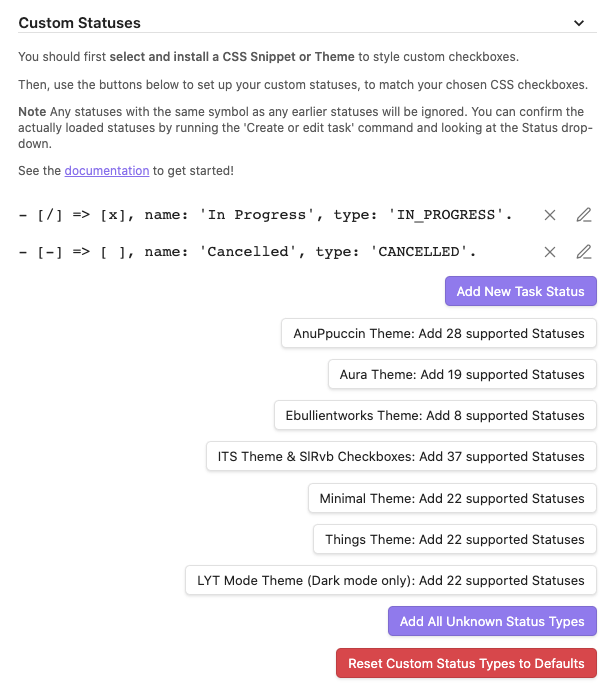
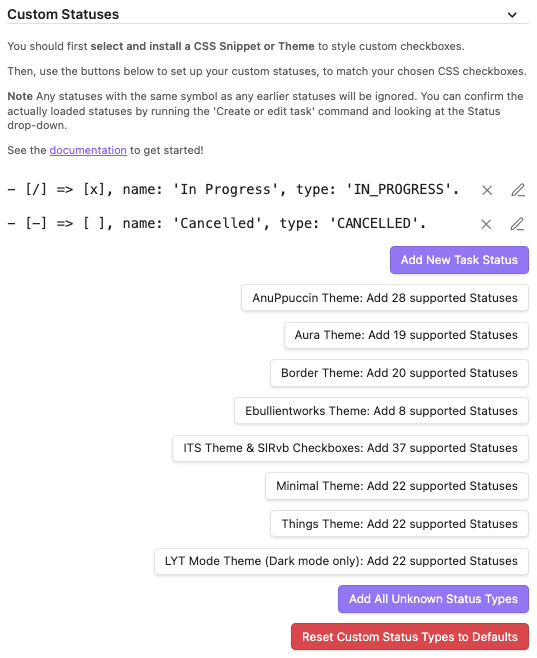
docs: Document one-click support for the Border theme

diff --git a/docs/Reference/Status Collections/Border Theme.md b/docs/Reference/Status Collections/Border Theme.md
@@ -1,0 +1,76 @@
+---
+publish: true
+---
+
+# Border Theme
+
+## Introduction
+
+|                       Location | Link                                                                                                                                                              |
+| ------------------------------:|:----------------------------------------------------------------------------------------------------------------------------------------------------------------- |
+|                        GitHub: | <https://github.com/Akifyss/obsidian-border>                                                                                                                      |
+|                  Obsidian Hub: | [Border Theme](https://publish.obsidian.md/hub/02+-+Community+Expansions/02.05+All+Community+Expansions/Themes/Border)                                            |
+| Test note in Tasks-Demo vault: | [Theme - Border Theme](https://github.com/obsidian-tasks-group/obsidian-tasks/blob/main/resources/sample_vaults/Tasks-Demo/Styling/Theme%20-%20Border%20Theme.md) |
+|                         Notes: |                                                                                                                                                                   |
+
+## Screenshot
+
+![Sample tasks show in Reading mode, with the Border Theme](../../../images/theme-border-reading-view.png)
+
+## Supported statuses
+
+<!-- snippet: DocsSamplesForStatuses.test.Theme_Border_Text.approved.txt -->
+```txt
+- [ ] #task `space` To Do
+- [/] #task `/` In Progress
+- [x] #task `x` Done
+- [-] #task `-` Cancelled
+- [>] #task `>` Rescheduled
+- [<] #task `<` Scheduled
+- [!] #task `!` Important
+- [?] #task `?` Question
+- [i] #task `i` Infomation
+- [S] #task `S` Amount
+- [*] #task `*` Star
+- [b] #task `b` Bookmark
+- [“] #task `“` Quote
+- [n] #task `n` Note
+- [l] #task `l` Location
+- [I] #task `I` Idea
+- [p] #task `p` Pro
+- [c] #task `c` Con
+- [u] #task `u` Up
+- [d] #task `d` Down
+```
+<!-- endSnippet -->
+
+## Tasks' one-click addition
+
+Tasks' setting pane has a one-click button to add the following information, representing the custom checkboxes in this plugin.
+
+<!-- placeholder to force blank line before included text --><!-- include: DocsSamplesForStatuses.test.Theme_Border_Table.approved.md -->
+
+| Status Symbol | Next Status Symbol | Status Name<br>`status.name includes...`<br>`sort by status.name`<br>`group by status.name` | Status Type<br>`status.type is...`<br>`sort by status.type`<br>`group by status.type` | Needs Custom Styling |
+| ----- | ----- | ----- | ----- | ----- |
+| `space` | `x` | To Do | `TODO` | No |
+| `/` | `x` | In Progress | `IN_PROGRESS` | Yes |
+| `x` | `space` | Done | `DONE` | No |
+| `-` | `space` | Cancelled | `CANCELLED` | Yes |
+| `>` | `x` | Rescheduled | `TODO` | Yes |
+| `<` | `x` | Scheduled | `TODO` | Yes |
+| `!` | `x` | Important | `TODO` | Yes |
+| `?` | `x` | Question | `TODO` | Yes |
+| `i` | `x` | Infomation | `TODO` | Yes |
+| `S` | `x` | Amount | `TODO` | Yes |
+| `*` | `x` | Star | `TODO` | Yes |
+| `b` | `x` | Bookmark | `TODO` | Yes |
+| `“` | `x` | Quote | `TODO` | Yes |
+| `n` | `x` | Note | `TODO` | Yes |
+| `l` | `x` | Location | `TODO` | Yes |
+| `I` | `x` | Idea | `TODO` | Yes |
+| `p` | `x` | Pro | `TODO` | Yes |
+| `c` | `x` | Con | `TODO` | Yes |
+| `u` | `x` | Up | `TODO` | Yes |
+| `d` | `x` | Down | `TODO` | Yes |
+
+<!-- placeholder to force blank line after included text --><!-- endInclude -->

diff --git a/docs/What is New/Changelog.md b/docs/What is New/Changelog.md
@@ -10,6 +10,8 @@ See also [[Breaking Changes]]: Tasks releases with version numbers ending `.0.0`
 
 _In recent [Tasks releases](https://github.com/obsidian-tasks-group/obsidian-tasks/releases)..._
 
+- X.Y.Z:
+  - Add one-click support for the [[Border Theme|Border]] theme.
 - 7.8.0.
   - Add [[On Completion]] facility, to tidy up your completed tasks.
 - 7.7.0:

diff --git a/docs/Reference/Status Collections/About Status Collections.md b/docs/Reference/Status Collections/About Status Collections.md
@@ -67,6 +67,7 @@ However, you can also browse through the pages in this section, to see the other
 - [[About Status Collections]]
 - [[AnuPpuccin Theme]]
 - [[Aura Theme]]
+- [[Border Theme]]
 - [[Ebullientworks Theme]]
 - [[ITS Theme]]
 - [[LYT Mode Theme]]
